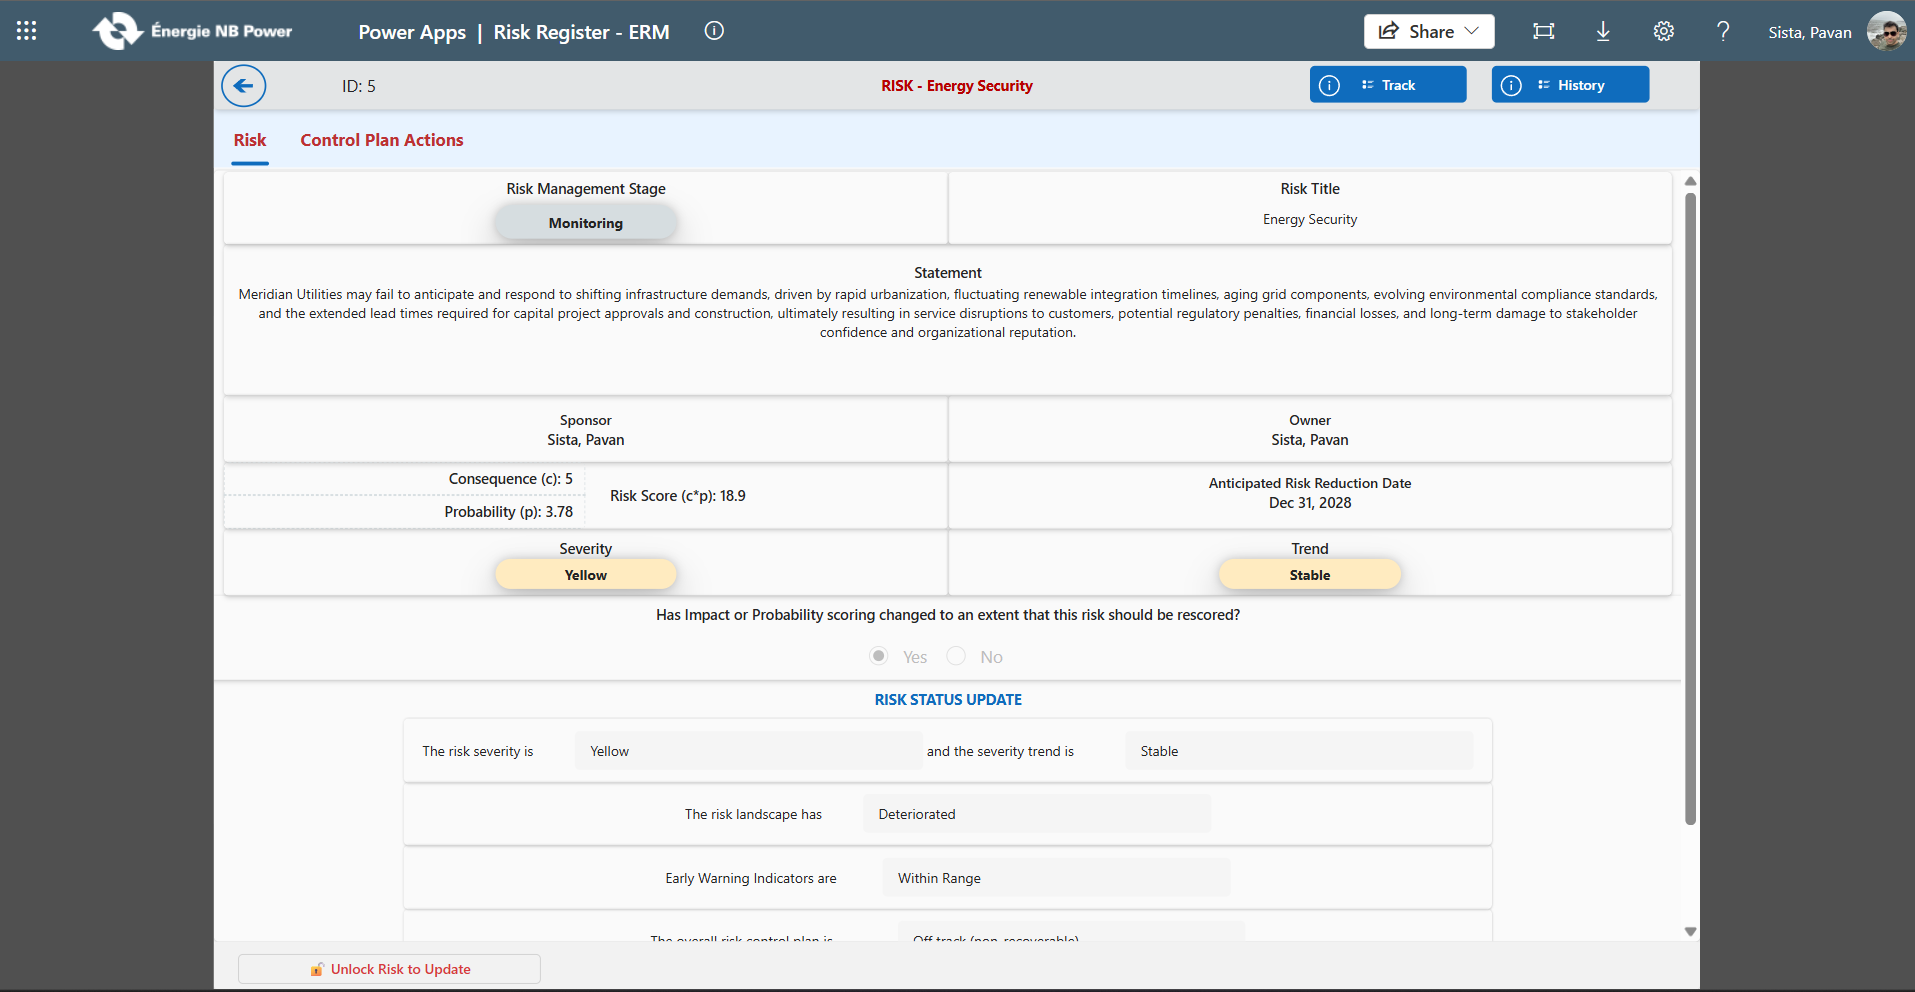
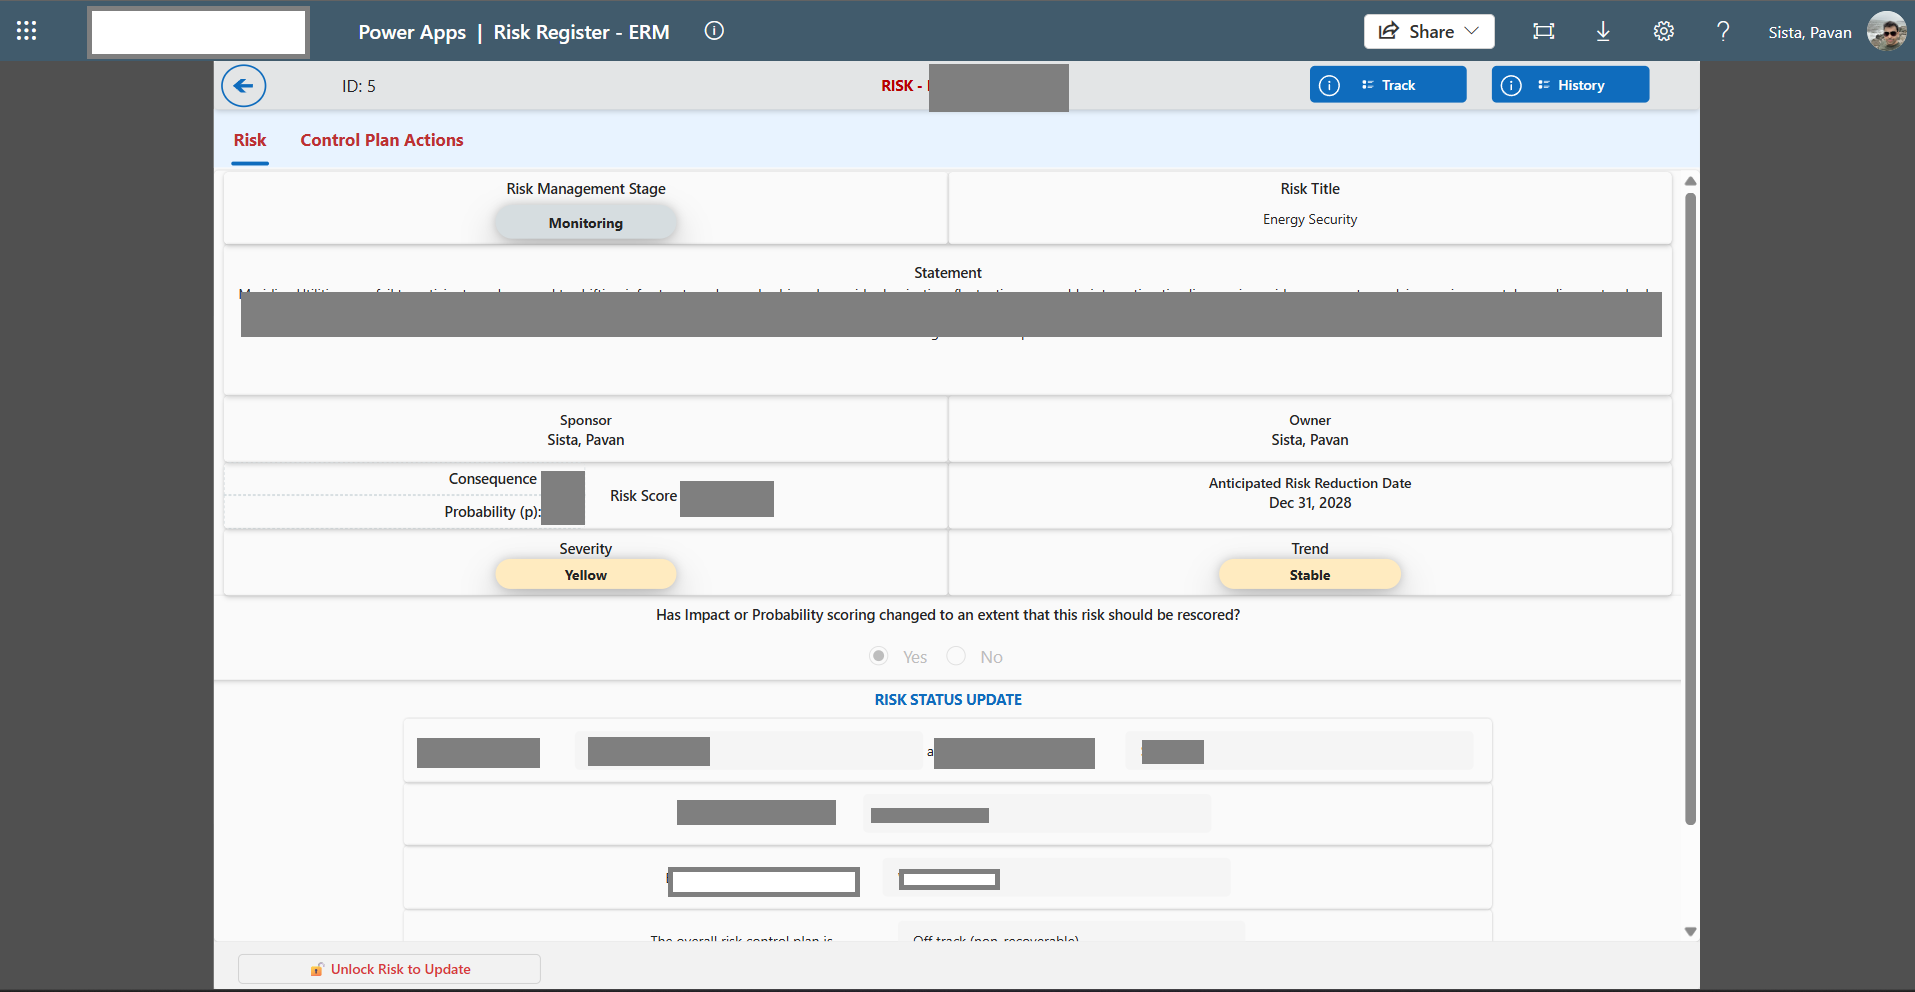
add screenshot sliders and other images for projects

diff --git a/components/site-footer.tsx b/components/site-footer.tsx
@@ -20,9 +20,9 @@ export async function SiteFooter() {
             <span className="hidden sm:inline"> · </span>
             <span className="block sm:inline">
               Coded in{" "}
-              <span className="font-medium text-foreground">Cursor</span> and
+              <span className="font-medium text-foreground">VS Code</span> and
               deployed with{" "}
-              <span className="font-medium text-foreground">Vercel</span>
+              <span className="font-medium text-foreground">Render</span>
             </span>
           </div>
           <div className="text-xs text-center sm:text-sm text-muted-foreground">
@@ -35,15 +35,7 @@ export async function SiteFooter() {
             >
               Pavan Sista
             </Link>{" "}
-            · Source code available on{" "}
-            <Link
-              href="https://topmate.io/pavan_sista/1773422"
-              target="_blank"
-              rel="noreferrer"
-              className="font-medium transition-colors text-primary hover:text-primary/80"
-            >
-              Topmate
-            </Link>
+            
           </div>
         </div>
       </div>

diff --git a/constants/projects.ts b/constants/projects.ts
@@ -80,9 +80,14 @@ export const projects: Project[] = [
     },
     screenshots: [
       {
-        src: "/projects/project-screenshot-placeholder.svg",
-        alt: "DER Registry application screenshot",
-        caption: "Replace this placeholder with your DER Registry screenshot.",
+        src: "/projects/der_registry_1.png",
+        alt: "DER Registry screenshot 1",
+        caption: "DER Registry 1",
+      },
+      {
+        src: "/projects/der_registry_2.png",
+        alt: "DER Registry screenshot 2",
+        caption: "DER Registry 2",
       },
     ],
   },
